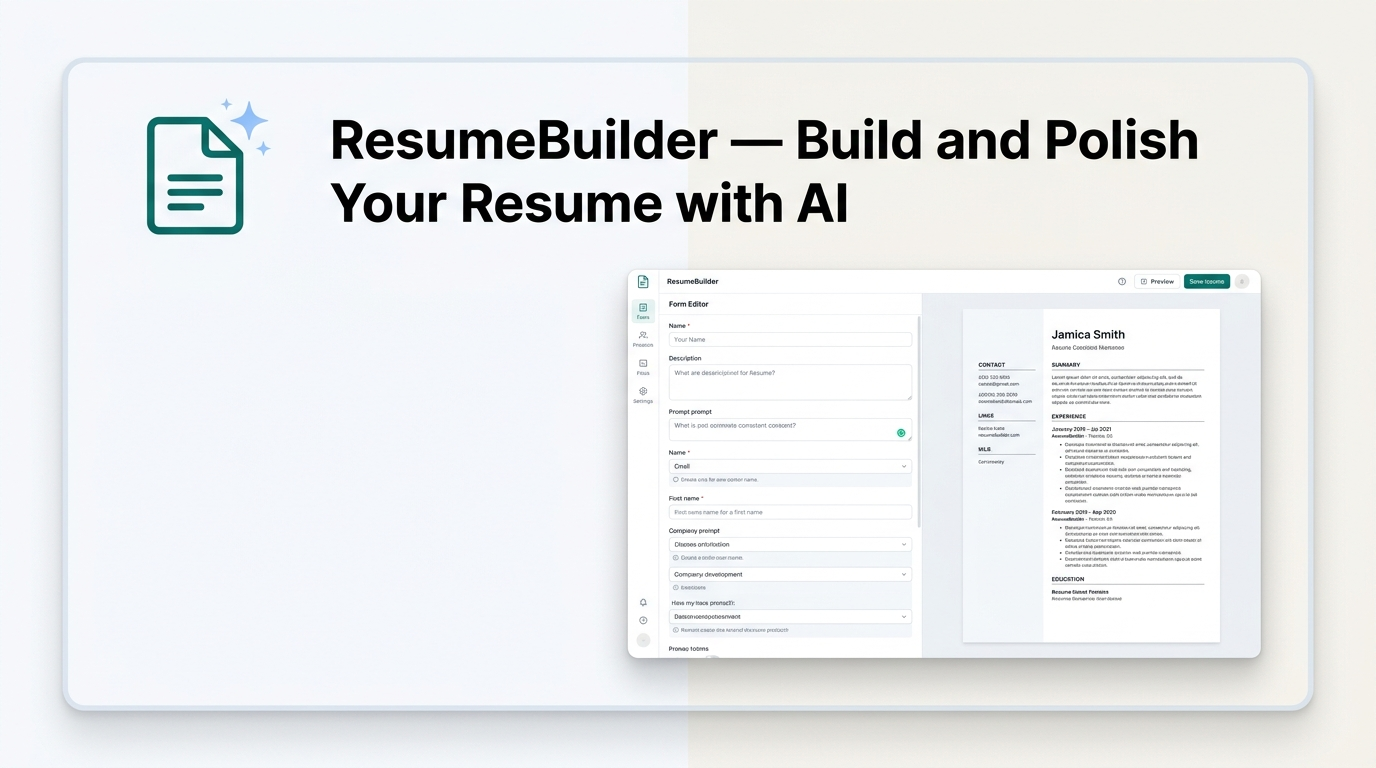
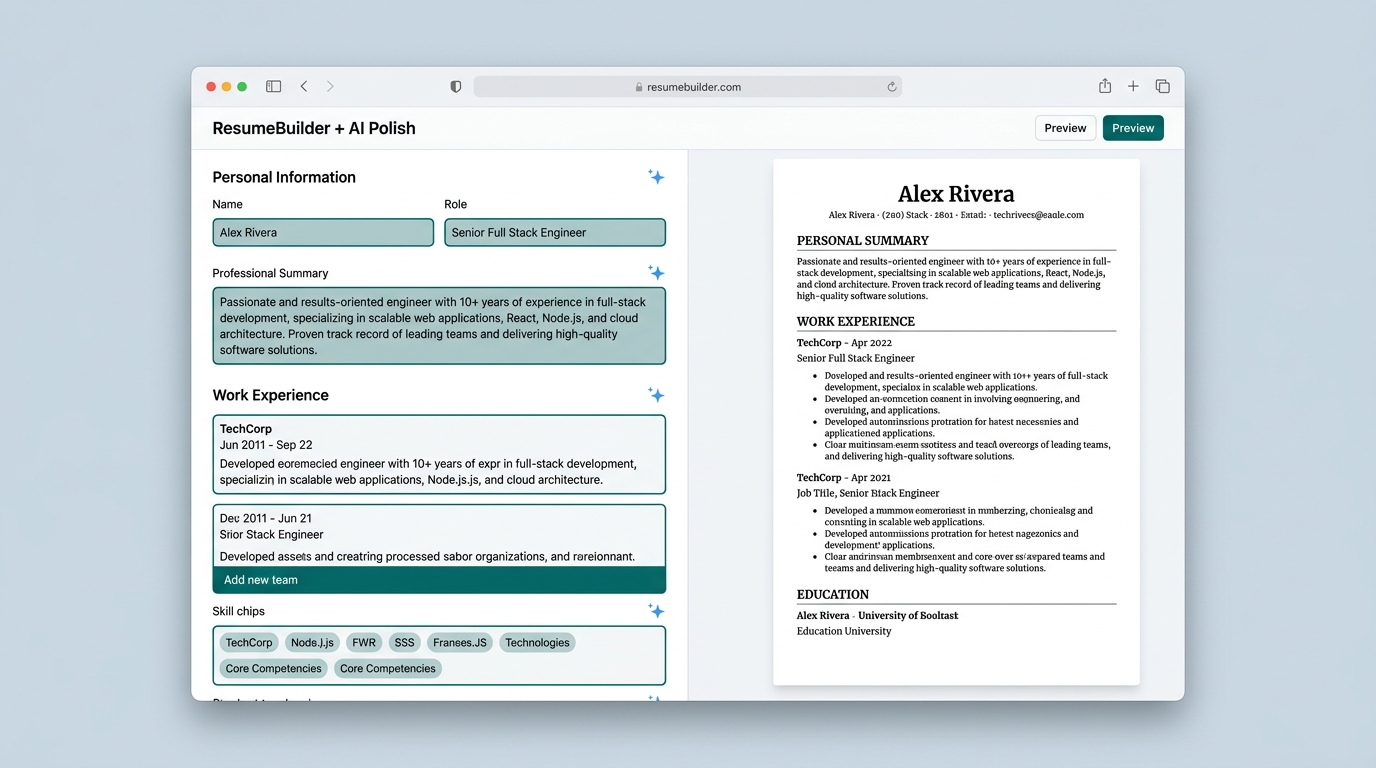
feat: implement FormEditor component with AI polish functionality and provider management

diff --git a/src/components/FormEditor.jsx b/src/components/FormEditor.jsx
@@ -1,5 +1,7 @@
 import React, { useState } from 'react'
 import { toast } from 'sonner'
+import { sendEmailVerification } from 'firebase/auth'
+import { auth } from '../config/firebase'
 import {
   SparklesIcon,
   UserIcon,
@@ -20,10 +22,33 @@ import { ensurePuterAuth } from '../services/puterService'
 export default function FormEditor({ resumeData, setResumeData, currentUser }) {
   const [newSkill, setNewSkill] = useState('')
   const [polishingSection, setPolishingSection] = useState(null) // null | 'summary' | 'skills' | `exp-${id}` | 'experience-all'
+  const [isSendingVerification, setIsSendingVerification] = useState(false)
   const activeProvider = resumeData.aiProvider || 'default'
 
   // Gate Default (Gemini) provider specifically for unverified users
   const isDefaultGated = activeProvider === 'default' && (!currentUser || !currentUser.emailVerified)
+
+  // Resend verification email handler
+  const handleResendVerification = async () => {
+    if (!auth.currentUser) {
+      toast.error('Session expired. Please sign in again.')
+      return
+    }
+    setIsSendingVerification(true)
+    try {
+      await sendEmailVerification(auth.currentUser)
+      toast.success(`Verification link sent to ${auth.currentUser.email}! Check your spam/promotions folder.`)
+    } catch (err) {
+      console.error('Error sending verification email:', err)
+      if (err.code === 'auth/too-many-requests') {
+        toast.error('Too many requests. Please wait a moment before trying again.')
+      } else {
+        toast.error('Could not send verification email. Please try again.')
+      }
+    } finally {
+      setIsSendingVerification(false)
+    }
+  }
 
   // Provider switch handler
   const handleProviderSwitch = async (newProvider) => {
@@ -276,7 +301,15 @@ export default function FormEditor({ resumeData, setResumeData, currentUser }) {
           </p>
           {isDefaultGated && (
             <p className="text-[11px] text-amber-700 font-medium mt-1">
-              Verify your email to use the free AI polish, or switch to Puter.js
+              Verify your email to use the free AI polish, or switch to Puter.js.{' '}
+              <button
+                type="button"
+                onClick={handleResendVerification}
+                disabled={isSendingVerification}
+                className="underline hover:text-amber-900 font-semibold cursor-pointer disabled:opacity-50"
+              >
+                {isSendingVerification ? 'Sending link...' : 'Resend verification email'}
+              </button>
             </p>
           )}
         </div>
@@ -328,7 +361,15 @@ export default function FormEditor({ resumeData, setResumeData, currentUser }) {
             </button>
             {isDefaultGated && (
               <span className="text-[10px] text-amber-700 font-medium">
-                Verify your email to use the free AI polish, or switch to Puter.js
+                Verify your email to use the free AI polish, or switch to Puter.js.{' '}
+                <button
+                  type="button"
+                  onClick={handleResendVerification}
+                  disabled={isSendingVerification}
+                  className="underline hover:text-amber-900 font-semibold cursor-pointer disabled:opacity-50"
+                >
+                  {isSendingVerification ? 'Sending...' : 'Resend verification email'}
+                </button>
               </span>
             )}
           </div>
@@ -417,7 +458,15 @@ export default function FormEditor({ resumeData, setResumeData, currentUser }) {
             </button>
             {isDefaultGated && (
               <span className="text-[10px] text-amber-700 font-medium">
-                Verify your email to use the free AI polish, or switch to Puter.js
+                Verify your email to use the free AI polish, or switch to Puter.js.{' '}
+                <button
+                  type="button"
+                  onClick={handleResendVerification}
+                  disabled={isSendingVerification}
+                  className="underline hover:text-amber-900 font-semibold cursor-pointer disabled:opacity-50"
+                >
+                  {isSendingVerification ? 'Sending...' : 'Resend verification email'}
+                </button>
               </span>
             )}
           </div>
@@ -648,7 +697,15 @@ export default function FormEditor({ resumeData, setResumeData, currentUser }) {
             </button>
             {isDefaultGated && (
               <span className="text-[10px] text-amber-700 font-medium">
-                Verify your email to use the free AI polish, or switch to Puter.js
+                Verify your email to use the free AI polish, or switch to Puter.js.{' '}
+                <button
+                  type="button"
+                  onClick={handleResendVerification}
+                  disabled={isSendingVerification}
+                  className="underline hover:text-amber-900 font-semibold cursor-pointer disabled:opacity-50"
+                >
+                  {isSendingVerification ? 'Sending...' : 'Resend verification email'}
+                </button>
               </span>
             )}
           </div>

diff --git a/src/App.jsx b/src/App.jsx
@@ -89,7 +89,11 @@ export default function App() {
           path="/signup"
           element={
             !isAuthLoading && currentUser ? (
-              <Navigate to="/" replace />
+              currentUser.emailVerified ? (
+                <Navigate to="/" replace />
+              ) : (
+                <Navigate to="/verify-email" replace />
+              )
             ) : (
               <AuthPage isSignUp={true} />
             )
